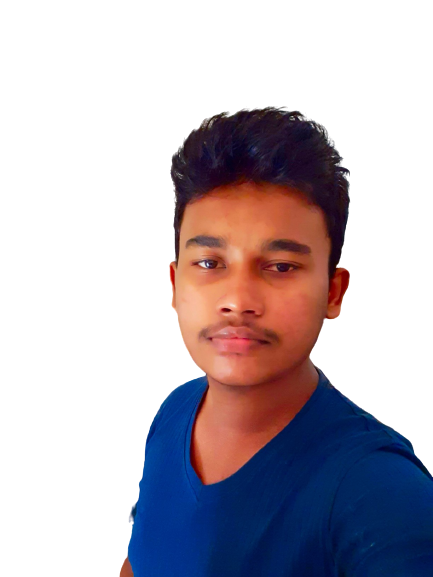
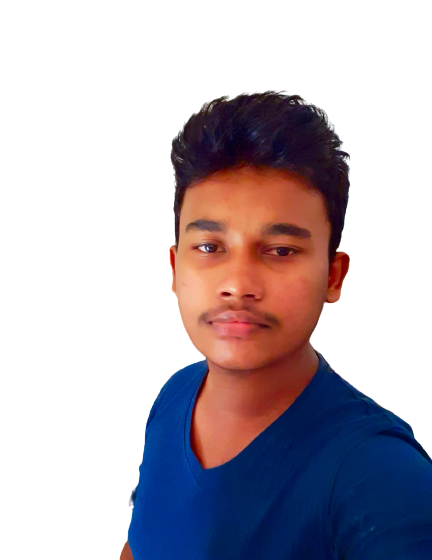
Updated Portfolio with some new CSS styles

diff --git a/index.html b/index.html
@@ -18,31 +18,36 @@
 </head>
 
 <body>
+    <header>
+        <nav>
+            <button>Lakshan</button>
+            <menu>
+                <li><a href="#contact">Contact me</a></li>
+                <li><a href="#about">About me</a></li>
+                <li><a href="#skills">Skills</a></li>
+                <li><a href="#projects">Projects</a></li>
+                <li><a href="#gallery">Gallery</a></li>
+            </menu>
+        </nav>
+    </header>
     <main>
-        <section>
-            <nav>
-                <menu>
-                    <li><a href="#contact">Contact me</a></li>
-                    <li><a href="#about">About me</a></li>
-                    <li><a href="#skills">Skills</a></li>
-                    <li><a href="#projects">Projects</a></li>
-                    <li><a href="#gallery">Gallery</a></li>
-                </menu>
-            </nav>
-            <br>
-            <img src="assets/images/pngwing.com.png" alt="" height="450">
-            <img usemap="image1" src="assets/images/image.png" width="335" height="450">
-            <aside></aside>
-            <br>
-            <article>
-                <h4>Web Developer | UI/UX Designer</h4>
-                <h1>Hello, I'm Thushara
-                    Lakshan</h1>
-                <h5>Hi there, I'm a freelancing web developer & a UI/UX designer and I have the experience of working in
-                    many freelancing websites over the past 3 years.</h5>
-                <button>Hire Me</button>
-                <a href="assets/CV.pdf" download="CV.pdf"><button>Download CV</button></a>
-            </article>
+        <section class="section01">
+            <div class="container">
+                <div class="mainBackground"></div>
+                <div class="mainContent">
+                    <img src=assets/images/image.png class="proPic" alt="">
+                    <article class="sec01article">
+                        <h4>Web Developer | UI/UX Designer</h4>
+                        <h1>Hello, I'm Thushara</h1>
+                        <h1>Lakshan</h1>
+                        <h5>Hi there, I'm a freelancing web developer & a UI/UX designer and</h5>
+                        <h5>I have the experience of working in many freelancing websites</h5>
+                        <h5>over the past 3 years.</h5>
+                        <button>Hire Me</button>
+                        <a href="assets/CV.pdf" download="CV.pdf"><button>Download CV</button></a>
+                    </article>
+                </div>
+            </div>
         </section>
         <section>
             <br>

diff --git a/assets/css/Style.css b/assets/css/Style.css
@@ -1,8 +1,16 @@
 body {
     margin: 0;
+    padding: 0;
+    border: 0;
     position: relative;
     width: 100vw;
 }
+
+
+h1, h2, h3, h4, h5, h6{
+    margin: 0;
+}
+
 
 /* css styles for <header> */
 ::-webkit-scrollbar {
@@ -62,7 +70,8 @@ main {
     left: 0;
     right: 0;
     margin: 0;
-    background-color: #332F2E;
+    background-color: black;
+    color: white;
 }
 
 nav {
@@ -107,44 +116,37 @@ header > nav > button{
     cursor: pointer;
 }
 
-/*img[src="assets/images/image.png"] {
-    float: right;
-    width: 500px;
-    height: 700px;
-    margin-top: 500px;
-
-}*/
-
-img[src="assets/images/pngwing.com.png"] {
-    transform: rotate(180deg);
-    float: right;
-    width: 1540px;
-    height: 1500px;
-    opacity: 0.8;
-
-}
-
-
-
-/*.container {
+.container {
     position: relative;
 }
 
 .mainBackground {
-    position: absolute;
+    background-image: url("mainBGimage.png");
+    background-size: cover;
     transform: rotate(180deg);
     float: right;
     width: 1540px;
     height: 1500px;
     opacity: 0.8;
+    z-index: 2;
 }
 
 .mainContent {
+    position: relative;
+}
+
+.proPic {
     position: absolute;
-    top: 50%;
-    left: 50%;
-    transform: translate(-50%, -50%);
-}*/
+    padding-top: 137px;
+    padding-left: 977px;
+    height: 560px;
+    width: 432px;
+    transform: scale(1.18);
+}
+
+.sec01article{
+
+}
 
 footer{
     background-color: #041335;
